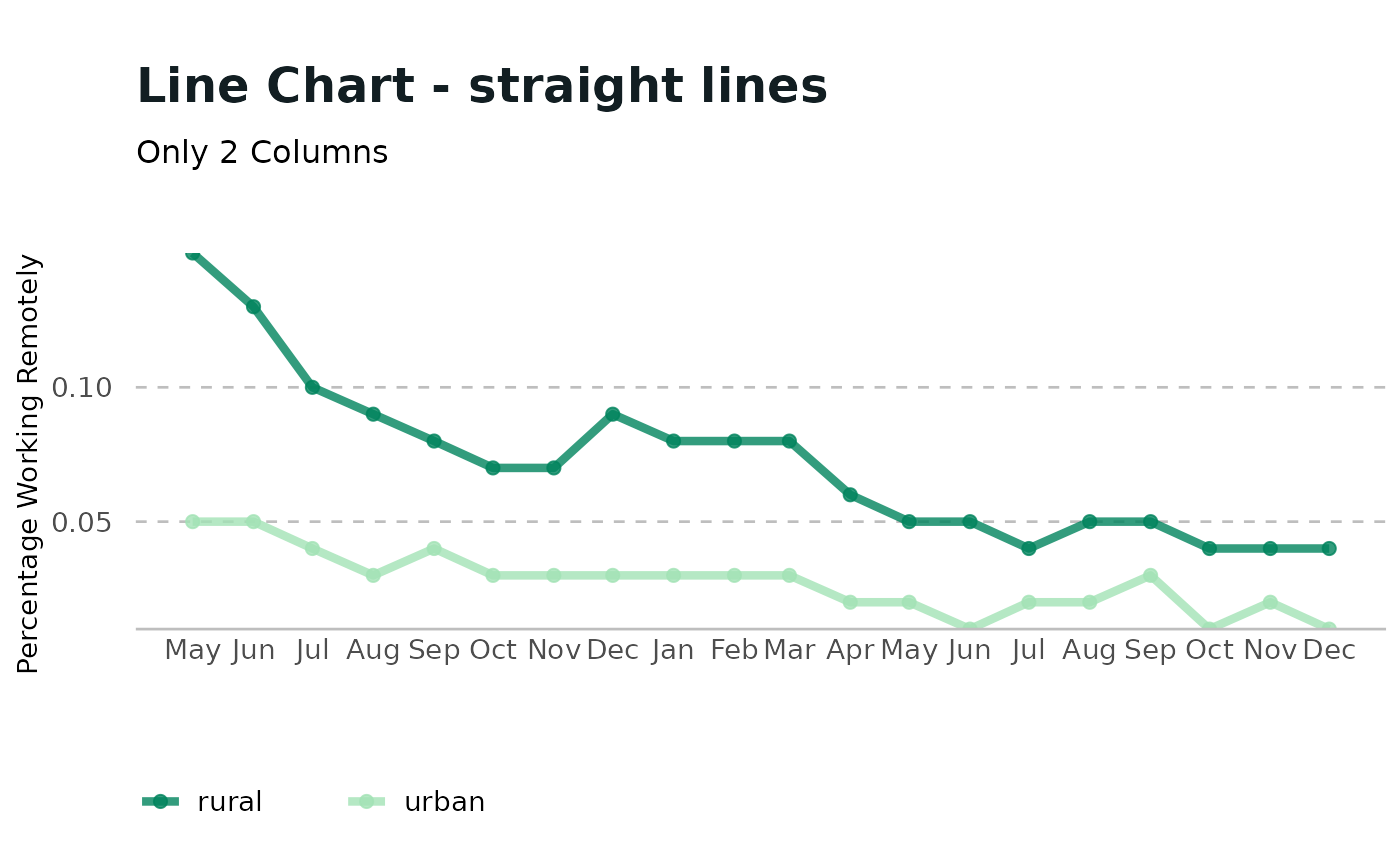
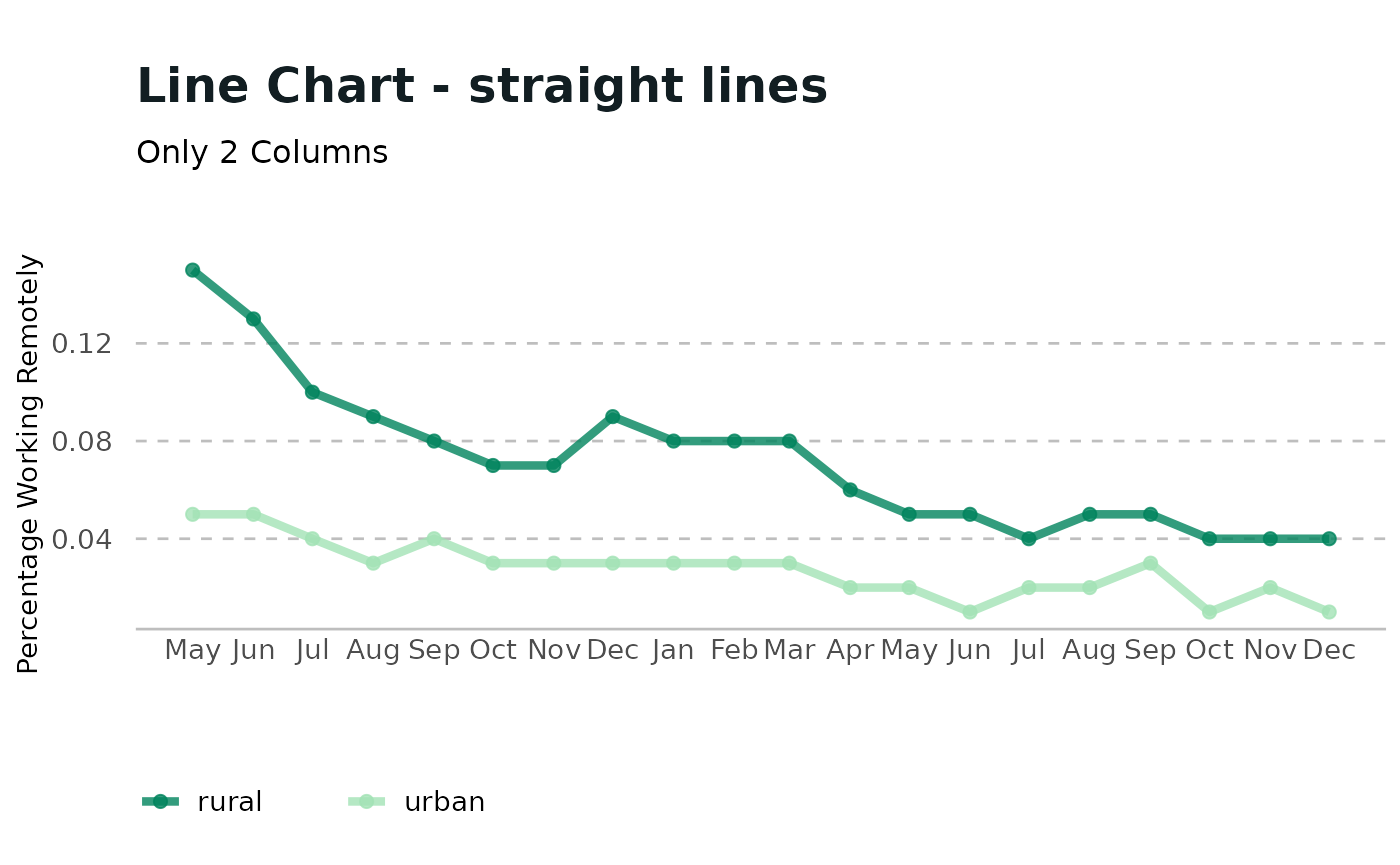
Built site for coriplot: 0.0.0.9000@c1b4a5e

diff --git a/articles/coriplot.html b/articles/coriplot.html
@@ -124,9 +124,9 @@
   <span class="fu"><a href="https://ggplot2.tidyverse.org/reference/scale_date.html" class="external-link">scale_x_date</a></span><span class="op">(</span>date_breaks <span class="op">=</span> <span class="st">"1 month"</span>, date_labels <span class="op">=</span>  <span class="st">"%b"</span><span class="op">)</span> <span class="op">+</span>
   <span class="fu"><a href="https://ggplot2.tidyverse.org/reference/scale_continuous.html" class="external-link">scale_y_continuous</a></span><span class="op">(</span>limits <span class="op">=</span> <span class="fu"><a href="https://rdrr.io/r/base/c.html" class="external-link">c</a></span><span class="op">(</span><span class="cn">NA</span>, <span class="fl">0.51</span><span class="op">)</span><span class="op">)</span> <span class="op">+</span>
   <span class="fu"><a href="https://ggplot2.tidyverse.org/reference/labs.html" class="external-link">labs</a></span><span class="op">(</span>
-    title <span class="op">=</span> <span class="st">"People with Education level Bachelors or higher\nTrend of working remotely throughout 2021"</span>,
+    title <span class="op">=</span> <span class="st">"Trend of working remotely throughout 2021"</span>,
     subtitle <span class="op">=</span> <span class="st">"A single line chart example"</span>,
-    caption <span class="op">=</span> <span class="st">"Source: source goes here https://www.blah.com"</span><span class="op">)</span> <span class="op">+</span>
+    caption <span class="op">=</span> <span class="st">"Source: here https://www.placeholder.com"</span><span class="op">)</span> <span class="op">+</span>
   <span class="fu"><a href="https://ggplot2.tidyverse.org/reference/labs.html" class="external-link">xlab</a></span><span class="op">(</span><span class="st">"2021"</span><span class="op">)</span> <span class="op">+</span>
   <span class="fu"><a href="https://ggplot2.tidyverse.org/reference/labs.html" class="external-link">ylab</a></span><span class="op">(</span><span class="st">"Percentage %"</span><span class="op">)</span> <span class="op">+</span>
   <span class="fu"><a href="../reference/theme_cori.html">theme_cori</a></span><span class="op">(</span><span class="op">)</span> <span class="op">-&gt;</span> <span class="va">fig</span>
@@ -135,7 +135,7 @@
 <p><img src="coriplot_files/figure-html/chart1-1.png" width="700"></p>
 </div>
 <div class="section level2">
-<h2 id="multi-line-chart-example">Multi LIne Chart Example<a class="anchor" aria-label="anchor" href="#multi-line-chart-example"></a>
+<h2 id="multi-line-chart-example">Multi Line Chart Example<a class="anchor" aria-label="anchor" href="#multi-line-chart-example"></a>
 </h2>
 <div class="sourceCode" id="cb4"><pre class="downlit sourceCode r">
 <code class="sourceCode R">
@@ -147,22 +147,29 @@
   <span class="fu"><a href="https://ggplot2.tidyverse.org/reference/geom_path.html" class="external-link">geom_line</a></span><span class="op">(</span><span class="op">)</span> <span class="op">+</span>
   <span class="fu"><a href="https://ggplot2.tidyverse.org/reference/scale_date.html" class="external-link">scale_x_date</a></span><span class="op">(</span>date_breaks <span class="op">=</span> <span class="st">"1 month"</span>, date_labels <span class="op">=</span>  <span class="st">"%b"</span><span class="op">)</span> <span class="op">+</span> 
   <span class="fu"><a href="https://ggplot2.tidyverse.org/reference/scale_continuous.html" class="external-link">scale_y_continuous</a></span><span class="op">(</span><span class="op">)</span> <span class="op">+</span>
-  <span class="fu"><a href="https://ggplot2.tidyverse.org/reference/labs.html" class="external-link">labs</a></span><span class="op">(</span>title <span class="op">=</span> <span class="st">"Education level\nTrend of working remotely throughout 2021"</span>,
-       subtitle <span class="op">=</span> <span class="st">"Some random subtitle"</span>,
-       caption <span class="op">=</span> <span class="st">"This image is not mine"</span><span class="op">)</span> <span class="op">+</span>
-  <span class="fu"><a href="https://ggplot2.tidyverse.org/reference/labs.html" class="external-link">xlab</a></span><span class="op">(</span><span class="st">"Some Time"</span><span class="op">)</span> <span class="op">+</span>
-  <span class="fu"><a href="https://ggplot2.tidyverse.org/reference/labs.html" class="external-link">ylab</a></span><span class="op">(</span><span class="st">"YLabel"</span><span class="op">)</span> <span class="op">+</span>
-  <span class="fu"><a href="../reference/theme_cori.html">theme_cori</a></span><span class="op">(</span><span class="op">)</span><span class="op">+</span>
+  <span class="fu"><a href="https://ggplot2.tidyverse.org/reference/labs.html" class="external-link">labs</a></span><span class="op">(</span>title <span class="op">=</span> <span class="st">"Trend of Education level in 2021"</span>,
+       subtitle <span class="op">=</span> <span class="st">"A Multi Line Chart Example"</span><span class="op">)</span> <span class="op">+</span>
+  <span class="fu"><a href="https://ggplot2.tidyverse.org/reference/labs.html" class="external-link">xlab</a></span><span class="op">(</span><span class="st">"2021"</span><span class="op">)</span> <span class="op">+</span>
+  <span class="fu"><a href="https://ggplot2.tidyverse.org/reference/labs.html" class="external-link">ylab</a></span><span class="op">(</span><span class="st">"Percentage %"</span><span class="op">)</span> <span class="op">+</span>
+  <span class="fu"><a href="../reference/theme_cori.html">theme_cori</a></span><span class="op">(</span><span class="op">)</span> <span class="op">+</span>
+  <span class="fu"><a href="../reference/scale_color_cori.html">scale_color_cori</a></span><span class="op">(</span><span class="op">)</span> <span class="op">+</span>
   <span class="fu"><a href="../reference/scale_x_percent.html">scale_y_percent</a></span><span class="op">(</span><span class="op">)</span> <span class="op">-&gt;</span> <span class="va">fig</span>
 <span class="co">#&gt; Scale for 'y' is already present. Adding another scale for 'y', which will</span>
 <span class="co">#&gt; replace the existing scale.</span>
 
 <span class="va">fig</span></code></pre></div>
 <p><img src="coriplot_files/figure-html/chart2-1.png" width="700"></p>
+</div>
+<div class="section level2">
+<h2 id="two-line-chart-example">Two Line Chart Example<a class="anchor" aria-label="anchor" href="#two-line-chart-example"></a>
+</h2>
 <div class="sourceCode" id="cb5"><pre class="downlit sourceCode r">
 <code class="sourceCode R">
-<span class="va">twoColDf</span><span class="op">&lt;-</span><span class="va">time_series_sample_data</span><span class="op">[</span>,<span class="fu"><a href="https://rdrr.io/r/base/c.html" class="external-link">c</a></span><span class="op">(</span><span class="st">"date"</span>,<span class="st">"less_than_high_school"</span>,<span class="st">"high_school_no_college"</span><span class="op">)</span><span class="op">]</span>
+<span class="va">twoColDf</span> <span class="op">&lt;-</span> 
+  <span class="va">time_series_sample_data</span><span class="op">[</span>,<span class="fu"><a href="https://rdrr.io/r/base/c.html" class="external-link">c</a></span><span class="op">(</span><span class="st">"date"</span>,<span class="st">"less_than_high_school"</span>,<span class="st">"high_school_no_college"</span><span class="op">)</span><span class="op">]</span>
+
 <span class="fu"><a href="https://rdrr.io/r/base/colnames.html" class="external-link">colnames</a></span><span class="op">(</span><span class="va">twoColDf</span><span class="op">)</span><span class="op">&lt;-</span><span class="fu"><a href="https://rdrr.io/r/base/c.html" class="external-link">c</a></span><span class="op">(</span><span class="st">"date"</span>,<span class="st">"urban"</span>,<span class="st">"rural"</span><span class="op">)</span>
+
 <span class="va">df2col</span><span class="op">&lt;-</span> <span class="fu">tidyr</span><span class="fu">::</span><span class="fu"><a href="https://tidyr.tidyverse.org/reference/pivot_longer.html" class="external-link">pivot_longer</a></span><span class="op">(</span>
   <span class="va">twoColDf</span>,
   cols <span class="op">=</span> <span class="op">!</span><span class="va">date</span>,
@@ -175,7 +182,7 @@
   <span class="fu"><a href="https://ggplot2.tidyverse.org/reference/geom_path.html" class="external-link">geom_line</a></span><span class="op">(</span>lwd <span class="op">=</span> <span class="fl">1.5</span><span class="op">)</span> <span class="op">+</span>
   <span class="fu"><a href="https://ggplot2.tidyverse.org/reference/labs.html" class="external-link">xlab</a></span><span class="op">(</span><span class="st">""</span><span class="op">)</span> <span class="op">+</span>
   <span class="fu"><a href="https://ggplot2.tidyverse.org/reference/scale_date.html" class="external-link">scale_x_date</a></span><span class="op">(</span>date_breaks <span class="op">=</span> <span class="st">"1 month"</span>, date_labels <span class="op">=</span>  <span class="st">"%b"</span><span class="op">)</span> <span class="op">+</span> 
-  <span class="fu"><a href="https://ggplot2.tidyverse.org/reference/scale_continuous.html" class="external-link">scale_y_continuous</a></span><span class="op">(</span>expand <span class="op">=</span> <span class="fu"><a href="https://rdrr.io/r/base/c.html" class="external-link">c</a></span><span class="op">(</span><span class="fl">0</span>, <span class="fl">0</span><span class="op">)</span><span class="op">)</span> <span class="op">+</span>
+  <span class="fu"><a href="https://ggplot2.tidyverse.org/reference/scale_continuous.html" class="external-link">scale_y_continuous</a></span><span class="op">(</span><span class="op">)</span> <span class="op">+</span>
   <span class="fu"><a href="https://ggplot2.tidyverse.org/reference/geom_point.html" class="external-link">geom_point</a></span><span class="op">(</span>size <span class="op">=</span> <span class="fl">2</span><span class="op">)</span><span class="op">+</span>
   <span class="fu"><a href="https://ggplot2.tidyverse.org/reference/labs.html" class="external-link">ggtitle</a></span><span class="op">(</span><span class="st">"Line Chart - straight lines"</span><span class="op">)</span> <span class="op">+</span>
   <span class="fu"><a href="https://ggplot2.tidyverse.org/reference/labs.html" class="external-link">labs</a></span><span class="op">(</span>subtitle <span class="op">=</span> <span class="st">"Only 2 Columns"</span><span class="op">)</span><span class="op">+</span>
